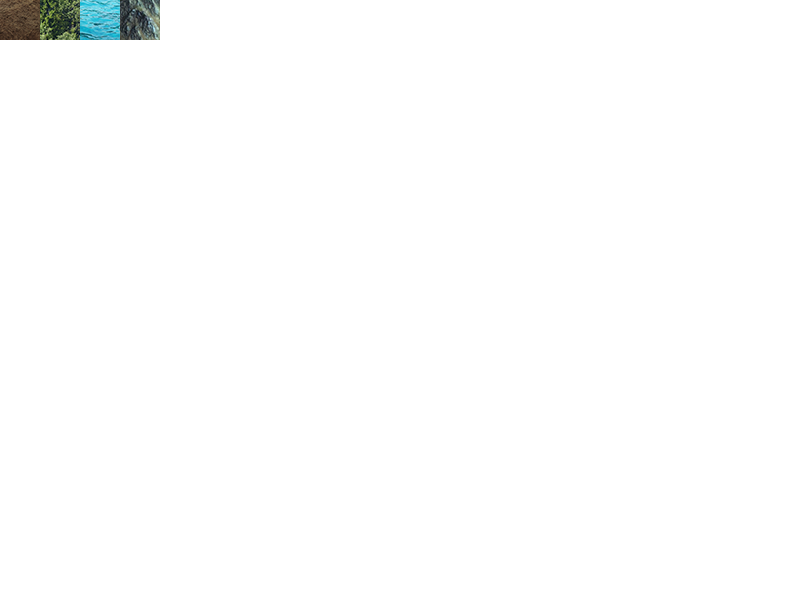
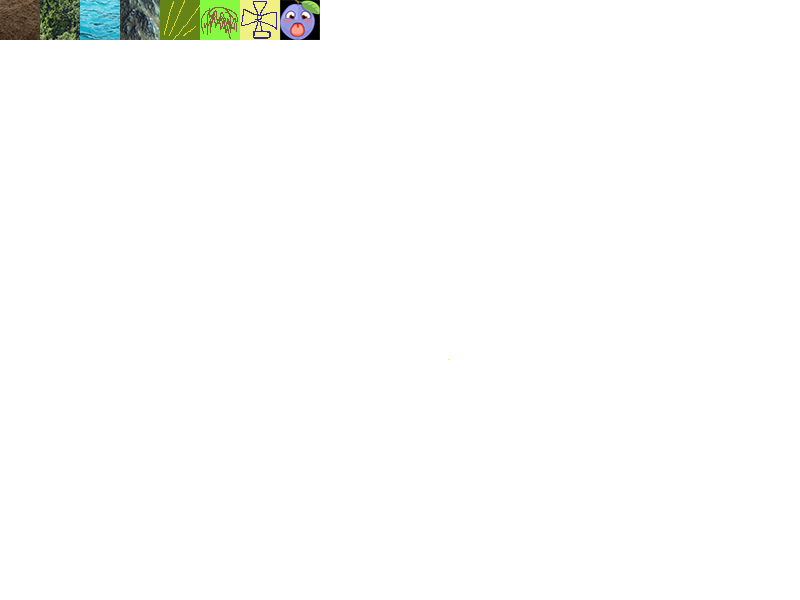
make game process ,upgrade cells

Changed region(s): [[0.1875, 0.0, 0.4062, 0.09]]

diff --git a/js/main.js b/js/main.js
@@ -65,10 +65,10 @@ function createField(){
 
 	}
 
-	addElements(0,60);
-	addElements(1,15);
-	addElements(2,15);
-	addElements(3,10);
+	addElements(0,80);
+	addElements(1,10);
+	addElements(2,5);
+	addElements(3,5);
 	console.log("generated");
 	for(var i=0;i<rows;i++){
 		for(var j=0;j<cols;j++){
@@ -97,13 +97,24 @@ function cellClick (x,y) {
 
 
 	console.log(i+" "+j);
+	
+	
+	
+		if(i<rows && j<cols ){ //устанавливаем новый фетус (трава начальная ё	пта)
+
+			var newFetus=getFetusForIndex(4);
+			if(field[i][j].fetus.index==newFetus.locate){
+				field[i][j].changeFetus(4);
+				console.log(field[i][j].fetus.name);
+			}else{
+				isUpgrade(i,j);
+			}
+		
+		}
+	
+	
 
 	
-	
-	if(i<rows && j<cols ){
-		field[i][j].setFetus(1);
-		console.log(field[i][j].fetus.name);
-	}
 	
 }
 
@@ -114,6 +125,66 @@ function click(e){
 	var y=e.pageY-offset.top;
 
 	cellClick(x,y);
+}
+
+function resetArrayCells(arr){  //обнуляет все ячейки переданные в массиве
+	for(var i=0;i<arr.length;i++){
+		field[arr[i].row][arr[i].col].resetCell();
+	}
+}
+
+function isUpgrade (row,col) {  //определяет соседей ячейки ,создает массив с их значениями ,нужными для апгрейда
+	var currFetus=field[row][col].fetus;
+	var needsCount;
+	var values=[];
+	var forReset=[];
+	var whatsWill;
+	var newFetusCoordinates={row:0,col:0};
+	for(var i=0;i<recipes.length;i++){
+		if(recipes[i].needs[0]==currFetus.index){
+			needsCount=recipes[i].needs[1];
+			whatsWill=recipes[i].needs[2];
+			console.log("needs "+needsCount);
+			break;
+		}
+	}
+	var dr,dc;
+	for(dr=-1;dr<2;dr++){//делает обход всех соседних ячеек ,собирает данные о них
+		for(dc=-1;dc<2;dc++){
+			try{
+				
+					if(field[row+dr][col+dc].fetus.index==field[row][col].fetus.index){
+						values.push(field[row+dr][col+dc].fetus.index);
+						if(dr==0 && dc==0){
+							newFetusCoordinates.row=row;
+							newFetusCoordinates.col=col;
+						}
+						else{
+							forReset.push({row:row+dr,col:col+dc});
+						}
+					}
+					
+				
+				
+			}
+			catch(err){
+				console.log("err - "+err);
+			}
+			
+		}
+	}
+	if(values.length>=needsCount){
+		resetArrayCells(forReset);
+		field[row][col].changeFetus(whatsWill);
+	}
+	
+	console.log(values);
+}
+function upgradeFetus(row,col){
+	var currFetus=field[row][col].fetus;
+	if(currFetus.index!=-1){
+
+	}
 }
 
 function loadContent(){

diff --git a/js/table.js b/js/table.js
@@ -1,5 +1,5 @@
 var table=[];
-
+var recipes=[];
 table.push({index:0,name:"земля",locate:-1});
 table.push({index:1,name:"лес",locate:-1});
 table.push({index:2,name:"вода",locate:-1});
@@ -7,7 +7,7 @@ table.push({index:3,name:"скалы",locate:-1});
 table.push({index:4,name:"зерновой колос",locate:0});
 table.push({index:5,name:"сноп пшеницы",locate:0});
 table.push({index:6,name:"мельница",locate:0});
-
+table.push({index:7,name:"вишня xD",locate:0});
 
 function getFetusForIndex(index){
 	
@@ -25,3 +25,8 @@ function getFetusForName(name){
 	}
 	
 }
+
+
+recipes.push({needs:[4,3,5]}); //зернового колоса(4) 3 штуки и поулчаем сноп пшеницы(5)
+recipes.push({needs:[5,4,6]});
+recipes.push({needs:[6,2,7]});

diff --git a/js/cell.js b/js/cell.js
@@ -48,17 +48,28 @@ Cell.prototype.setSprite = function(texture,w,h) {
 
 Cell.prototype.changeFetus = function(newFetus) {
 	//this.element=newElement;
+
 	this.setFetus(newFetus);
-	i=this.fetus.index;
+	var i=this.fetus.index;
+	if (i==-1) i=this.element;
+	console.log("I "+i);
 	this.sprite.tilePosition.x=-this.sprite.width*i;
 	this.sprite.tilePosition.y=0;
 };
 
 Cell.prototype.setFetus = function(value) {
-	if(this.element>-1){
+	
 		var newfetus=new Fetus(value);
 		//console.log("THIs elem "+this.element);
 		this.fetus=newfetus;
-	}
 	
+	
+};
+Cell.prototype.resetCell = function() {
+	this.setFetus(this.element);
+	
+	var i=this.fetus.index;
+	console.log("I "+i);
+	this.sprite.tilePosition.x=-this.sprite.width*i;
+	this.sprite.tilePosition.y=0;
 };

diff --git a/js/fetus.js b/js/fetus.js
@@ -5,7 +5,14 @@ function Fetus(index) {
 }
 
 Fetus.prototype.init = function() {
-	var alterfetus = getFetusForIndex(this.index);
+	var alterfetus;
+	if(this.index==-1){
+		alterfetus={index:this.index,name:"пусто",locate:-1};
+	}
+	else{
+		alterfetus = getFetusForIndex(this.index);
+	}
+	
 	this.name=alterfetus.name;
 	
 };
